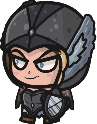
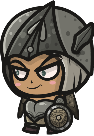
Foi acrescentando movimento ao personagem

diff --git a/code/Player.py b/code/Player.py
@@ -1,6 +1,7 @@
 import pygame
-from code.Const import SPEED_PLAYER, WIN_WIDTH, WIN_HEIGHT
+from code.Const import SPEED_PLAYER, WIN_WIDTH, WIN_HEIGHT, PLAYER_KEY_CUT
 from code.Entity import Entity
+from code.PlayerCut import PlayerCut
 
 
 class Player(Entity):
@@ -20,7 +21,7 @@ class Player(Entity):
         self.current_sprite = 0  # Índice do sprite atual
         self.image = self.sprites[self.current_sprite]
         self.last_update = pygame.time.get_ticks()  # Tempo da última troca de sprite
-        self.animation_delay = 1000  # Tempo de troca de sprite (1 segundo)
+        self.animation_delay = 40  # Tempo de troca de sprite (1 segundo)
 
     def update(self):
         self.move()
@@ -53,3 +54,9 @@ class Player(Entity):
             self.last_update = now
             self.current_sprite = (self.current_sprite + 1) % len(self.sprites)
             self.image = self.sprites[self.current_sprite]
+            self.surf = self.image
+
+    def cut(self):
+        pressed_key = pygame.key.get_pressed()
+        if pressed_key[PLAYER_KEY_CUT[self.name]]:
+            PlayerCut(name=f'{self.name}Cut', position=(self.rect.centerx, self.rect.centery))

diff --git a/code/Level.py b/code/Level.py
@@ -25,6 +25,8 @@ class Level:
         if isinstance(player, Entity):
             self.entity_list.append(player)
 
+
+
         # Set time
         pygame.time.set_timer(EVENT_ENEMY, 5000)
 
@@ -43,8 +45,8 @@ class Level:
                     pygame.quit()
                     sys.exit()
                 if event.type == EVENT_ENEMY:
-                    choice = random.choice(('Enemy1', 'Enemy2'))
-                    self.entity_list.append(EntityFactory.get_entity(choice))
+                    #choice = random.choice(('Enemy1'))
+                    self.entity_list.append(EntityFactory.get_entity('Enemy1'))
 
             # print text
             self.level_text(14, f'{self.name} - Timeout: {self.timeout / 1000 :.1f}s', COLOR_WHITE, (10, 5))

diff --git a/code/Enemy.py b/code/Enemy.py
@@ -1,12 +1,16 @@
+import pygame
+
 from code.Const import SPEED_ENEMY, WIN_HEIGHT
 from code.Entity import Entity
 
 class Enemy(Entity):
     def __init__(self, name: str, position: tuple):
         super().__init__(name, position)
-        pass
+        # Lista de sprites do personagem
+        self.sprites = [
+            pygame.image.load(f"Asset/Enemy{i}.png") for i in range(12)
+
+        ]
 
     def move(self):
         self.rect.centerx -= SPEED_ENEMY[self.name]
-        if self.rect.right <= 0:
-            self.rect.left = WIN_HEIGHT

diff --git a/code/EntityMediator.py b/code/EntityMediator.py
@@ -18,7 +18,9 @@ class EntityMediator:
             EntityMediator.__verifyCollissionWindow(test_entity)
 
     @staticmethod
-    def verifyHealth(entity_list: list[Entity]):
+    def verifyHealth(entity_list):
         for ent in entity_list:
-            if ent.health <= 0:
-                entity_list.remove(ent) # Exclui a entidade
+            if ent is not None and hasattr(ent, "health"):
+                if ent.health <= 0:
+                    print(f"{ent.name} foi removido!")
+                    entity_list.remove(ent)

diff --git a/code/EntityFactory.py b/code/EntityFactory.py
@@ -21,6 +21,6 @@ class EntityFactory:
                 return Player('PlayerRunning1', (10, WIN_WIDTH / 2))
             case 'Enemy1':
                 return Enemy('Enemy1', (WIN_HEIGHT + 10, random.randint(125, 360)))
-            case 'Enemy2':
-                return Enemy('Enemy2', (WIN_HEIGHT + 10, random.randint(125, 360)))
+            #case 'Enemy2':
+                #return Enemy('Enem', (WIN_HEIGHT + 10, random.randint(125, 360)))
 

diff --git a/code/Const.py b/code/Const.py
@@ -36,12 +36,16 @@ SPEED_BACKGROUND = {
 }
 SPEED_ENEMY = {
     'Enemy1': 2,
-    'Enemy2': 3
 }
 
 SPEED_PLAYER={
     'PlayerRunning1': 3
 
+}
+
+# P
+PLAYER_KEY_CUT = {
+    'PlayerRunning1': pygame.K_SPACE
 }
 
 # W

diff --git a/code/PlayerCut.py b/code/PlayerCut.py
@@ -1,0 +1,9 @@
+from code.Entity import Entity
+
+
+class PlayerCut(Entity):
+    def __init__(self, name: str, position: tuple):
+        super().__init__(name, position)
+
+    def move(self):
+        pass
